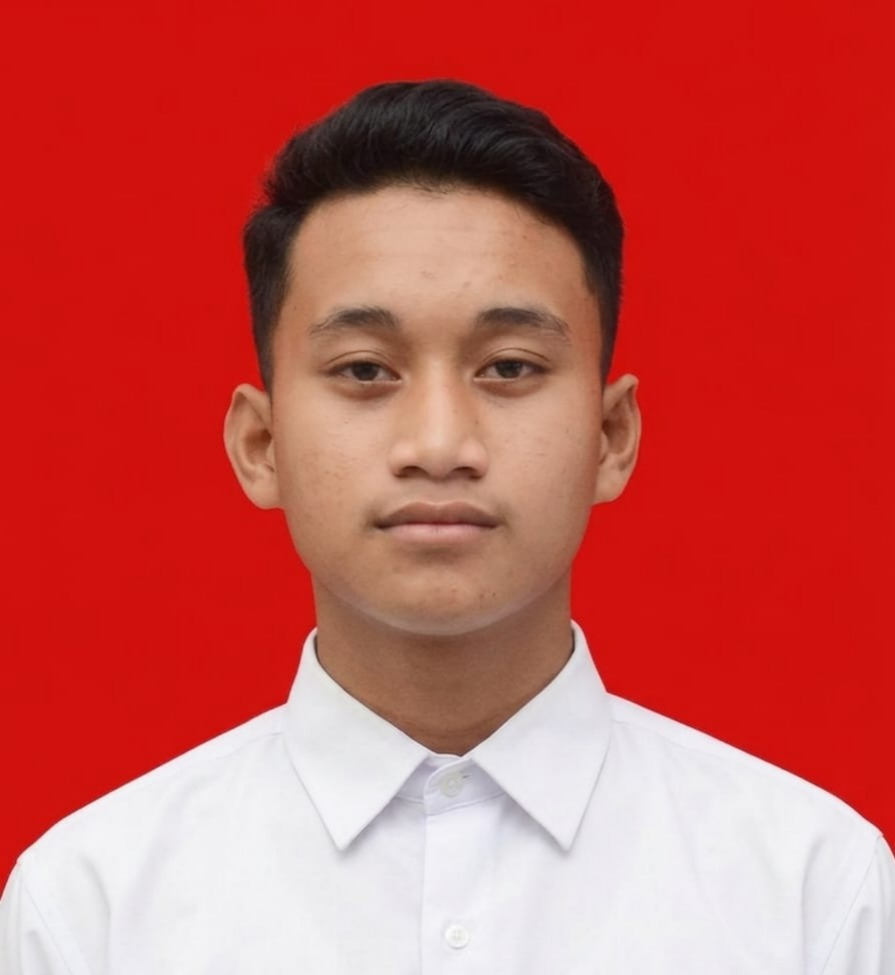
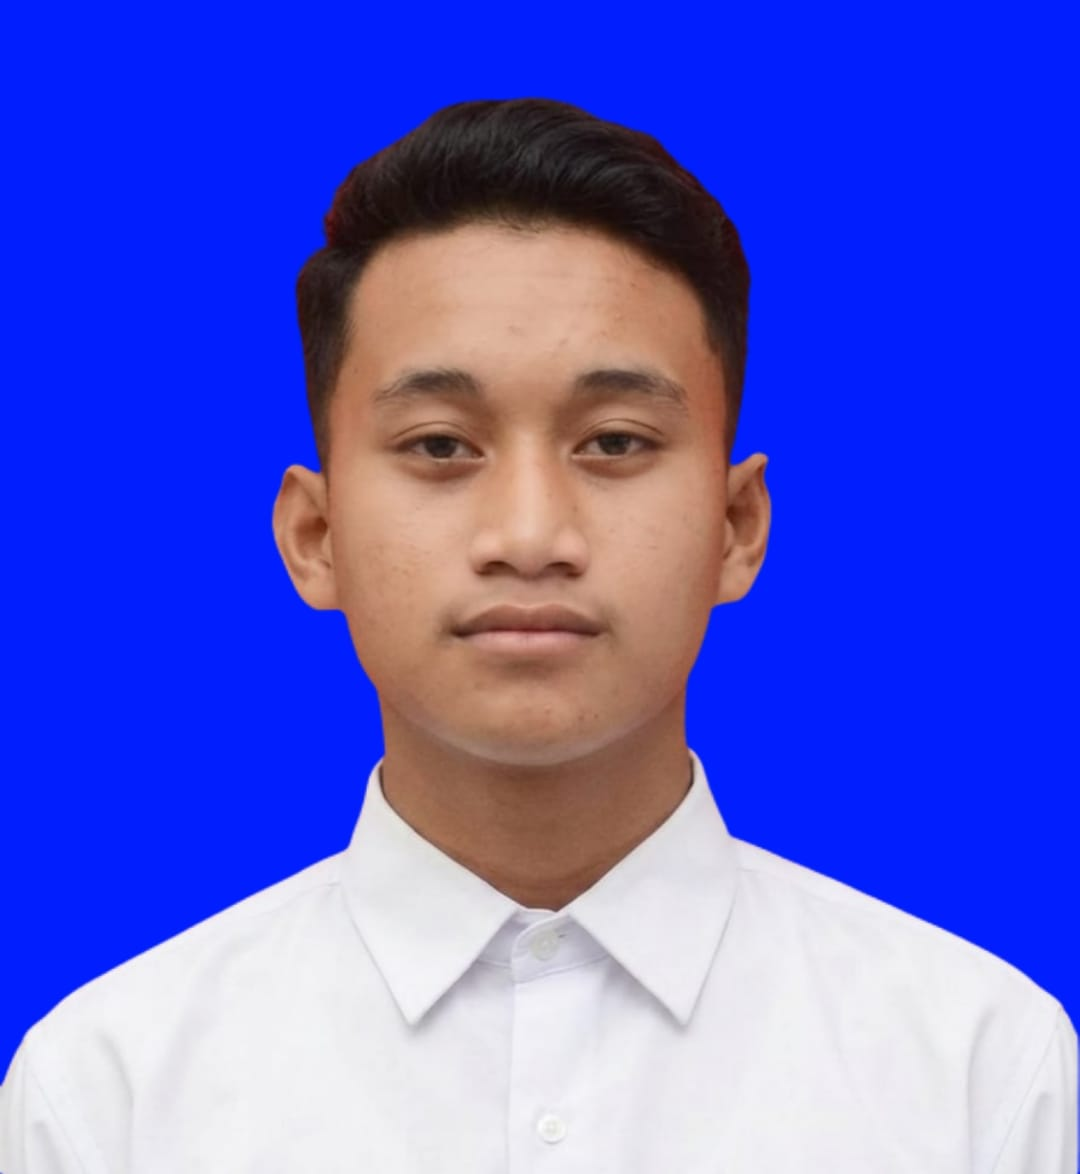
muti

diff --git a/css/style.css b/css/style.css
@@ -275,19 +275,67 @@ section{padding:96px 0;}
 }
 
 /* ---------- Struktur Organisasi ---------- */
-.org-grid{display:grid;grid-template-columns:repeat(4,1fr);gap:20px;margin-top:50px;}
+/* ---------- Struktur Organisasi ---------- */
+.org-grid{
+  display:grid;
+  grid-template-columns:repeat(4,1fr);
+  gap:20px;
+  margin-top:50px;
+}
 .org-card{
-  background:#fff;border:1px solid var(--border);border-radius:10px;
-  padding:26px 22px;text-align:center;box-shadow:var(--shadow-sm);font:inherit;cursor:pointer;
+  background:#fff;
+  border:1px solid var(--border);
+  border-radius:10px;
+  padding:26px 22px;
+  text-align:center;
+  box-shadow:var(--shadow-sm);
+  font:inherit;
+  cursor:pointer;
   transition:transform .25s ease,box-shadow .25s ease,border-color .25s ease;
+  display:flex;
+  flex-direction:column;
+  align-items:center;
 }
 .org-card:hover,.org-card:focus-visible{transform:translateY(-5px);box-shadow:var(--shadow-md);border-color:var(--gold);outline:none;}
+
+/* Avatar — ukuran & posisi SAMA PERSIS untuk semua */
 .org-avatar{
-  width:94px;height:94px;border-radius:50%;margin:0 auto 16px;object-fit:cover;
-  border:3px solid var(--green-100);box-shadow:0 0 0 2px var(--gold-light);
+  width:94px;
+  height:94px;
+  border-radius:50%;
+  margin:0 auto 16px !important;
+  object-fit:cover;
+  border:3px solid var(--green-100);
+  box-shadow:0 0 0 2px var(--gold-light);
+  display:block;
+  flex-shrink:0;
 }
-.org-card .role{font-size:.72rem;text-transform:uppercase;letter-spacing:.06em;color:var(--gold-600);font-weight:600;margin-bottom:4px;}
-.org-card .person{font-size:.95rem;font-weight:600;color:var(--green-900);}
+.org-card .role{
+  font-size:.72rem;
+  text-transform:uppercase;
+  letter-spacing:.06em;
+  color:var(--gold-600);
+  font-weight:600;
+  margin-bottom:4px;
+  line-height:1.2;
+  min-height:2.4rem;
+  display:flex;
+  align-items:center;
+  justify-content:center;
+  text-align:center;
+}
+.org-card .person{
+  font-size:.95rem;
+  font-weight:600;
+  color:var(--green-900);
+  line-height:1.4;
+}
+
+/* Dua kartu bawah ditengah */
+@media(min-width:981px){
+  .org-card:nth-child(5){grid-column:2;}
+  .org-card:nth-child(6){grid-column:3;}
+}
 
 /* ---------- Program ---------- */
 .program-grid{

diff --git a/kontak.html b/kontak.html
@@ -3,7 +3,7 @@
 <head>
 <meta charset="UTF-8">
 <meta name="viewport" content="width=device-width, initial-scale=1.0">
-<title>Kontak — MDTA Al-Barokah</title>
+<title>Kontak — MDTU Al-Barokah</title>
 <link rel="preconnect" href="https://fonts.googleapis.com">
 <link rel="preconnect" href="https://fonts.gstatic.com" crossorigin>
 <link href="https://fonts.googleapis.com/css2?family=Poppins:wght@300;400;500;600;700;800&display=swap" rel="stylesheet">
@@ -16,8 +16,8 @@
     <a href="index.html" class="logo">
       <div class="logo-mark"><img src="assets/logo-mdta.jpeg" alt="Logo MDTA Al-Barokah"></div>
       <div class="logo-text">
-        <span class="name">MDTA Al-Barokah</span>
-        <span class="tagline">Diniyah Takmiliyah Ula</span>
+        <span class="name">MDTU Al-Barokah</span>
+        <span class="tagline">Madrasah Diniyah Takmiliyah Ula</span>
       </div>
     </a>
     <nav id="mainNav">
@@ -39,7 +39,7 @@
     <div class="breadcrumb"><a href="index.html">Beranda</a> / Kontak</div>
     <span class="eyebrow">Hubungi Kami</span>
     <h1>Ada Pertanyaan? Kami Siap Membantu</h1>
-    <p>Hubungi MDTA Al-Barokah melalui kontak di bawah, atau datang langsung ke lokasi madrasah.</p>
+    <p>Hubungi MDTU Al-Barokah melalui kontak di bawah, atau datang langsung ke lokasi madrasah.</p>
   </div>
 </div>
 

diff --git a/pendaftaran.html b/pendaftaran.html
@@ -3,7 +3,7 @@
 <head>
 <meta charset="UTF-8">
 <meta name="viewport" content="width=device-width, initial-scale=1.0">
-<title>Cara Daftar — MDTA Al-Barokah</title>
+<title>Cara Daftar — MDTU Al-Barokah</title>
 <link rel="preconnect" href="https://fonts.googleapis.com">
 <link rel="preconnect" href="https://fonts.gstatic.com" crossorigin>
 <link href="https://fonts.googleapis.com/css2?family=Poppins:wght@300;400;500;600;700;800&display=swap" rel="stylesheet">
@@ -16,8 +16,8 @@
     <a href="index.html" class="logo">
       <div class="logo-mark"><img src="assets/logo-mdta.jpeg" alt="Logo MDTA Al-Barokah"></div>
       <div class="logo-text">
-        <span class="name">MDTA Al-Barokah</span>
-        <span class="tagline">Diniyah Takmiliyah Ula</span>
+        <span class="name">MDTU Al-Barokah</span>
+        <span class="tagline">Madasah Diniyah Takmiliyah Ula</span>
       </div>
     </a>
     <nav id="mainNav">

diff --git a/galeri.html b/galeri.html
@@ -3,7 +3,7 @@
 <head>
 <meta charset="UTF-8">
 <meta name="viewport" content="width=device-width, initial-scale=1.0">
-<title>Galeri — MDTA Al-Barokah</title>
+<title>Galeri — MDTU Al-Barokah</title>
 <link rel="preconnect" href="https://fonts.googleapis.com">
 <link rel="preconnect" href="https://fonts.gstatic.com" crossorigin>
 <link href="https://fonts.googleapis.com/css2?family=Poppins:wght@300;400;500;600;700;800&display=swap" rel="stylesheet">
@@ -16,8 +16,8 @@
     <a href="index.html" class="logo">
       <div class="logo-mark"><img src="assets/logo-mdta.jpeg" alt="Logo MDTA Al-Barokah"></div>
       <div class="logo-text">
-        <span class="name">MDTA Al-Barokah</span>
-        <span class="tagline">Diniyah Takmiliyah Ula</span>
+        <span class="name">MDTU Al-Barokah</span>
+        <span class="tagline">Madrasah Diniyah Takmiliyah Ula</span>
       </div>
     </a>
     <nav id="mainNav">

diff --git a/profil.html b/profil.html
@@ -165,7 +165,7 @@
     src="assets/nina.png"
     alt="Foto Nina Nuraeni">
 
-  <div class="role">Sekretaris</div>
+  <div class="role">Sekretaris & Operator</div>
   <div class="person">Nina Nuraeni, S.A.B.</div>
 </button>
 <button class="org-card reveal" type="button"
@@ -215,7 +215,7 @@
   data-role="Tenaga Pengajar"
   data-lahir="Garut, 14 Maret 2004"
   data-alamat="Kp. Cigadog RT 002/ RW 010 Desa Lingkungpasir, Kec. Cibiuk, Kab. Garut"
-  data-kontak="08">
+  data-kontak="083862020387">
 
   <img class="org-avatar"
     src="assets/santi.png"
